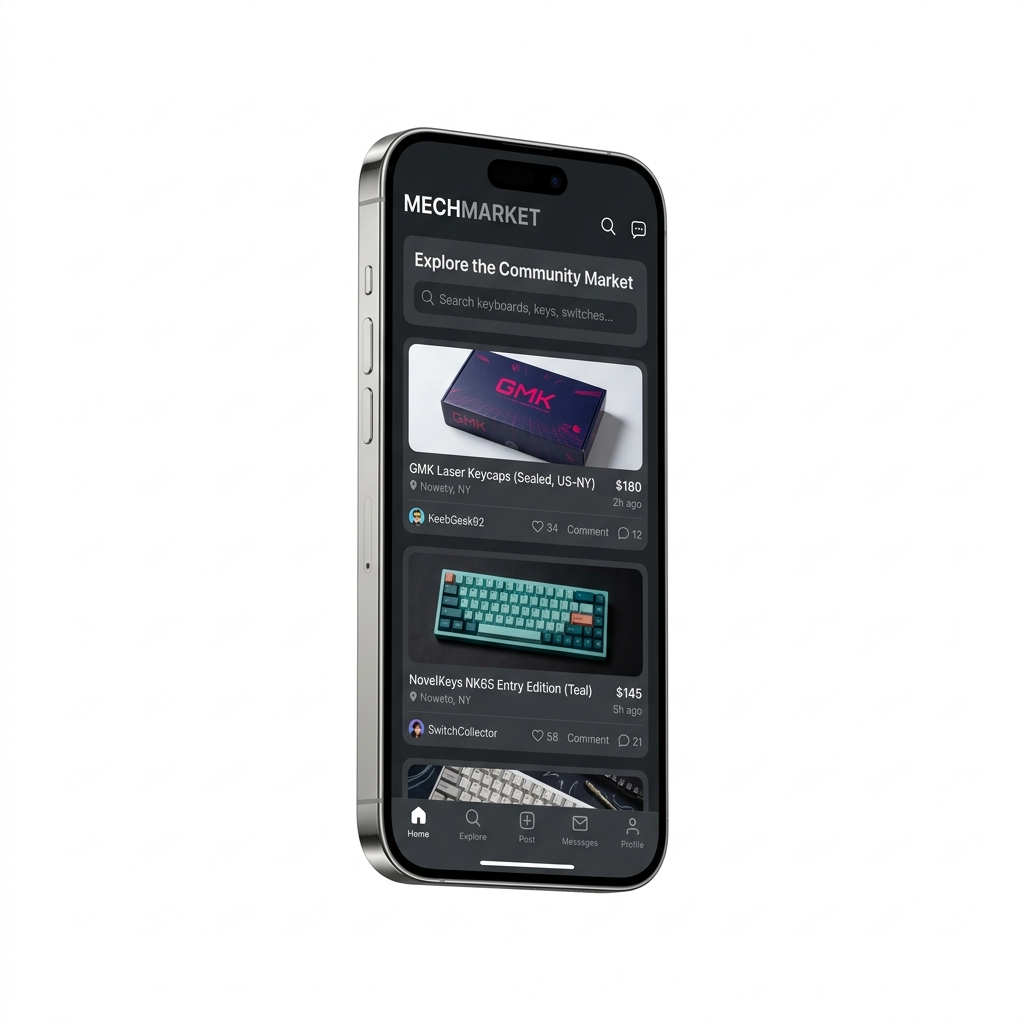
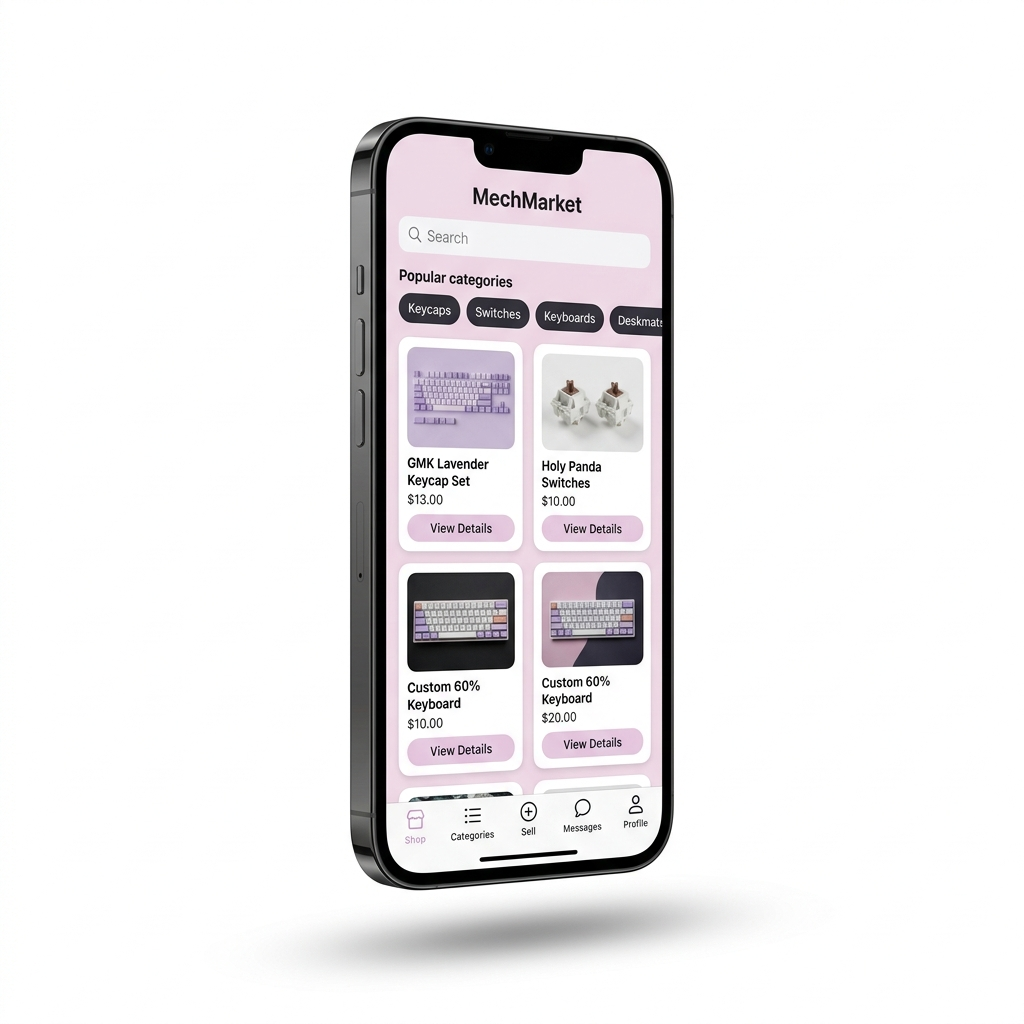
Apply visual overhaul to MechMarket case study using premium lavender and charcoal aesthetic and update mockup assets

Changed region(s): [[0.3125, 0.0938, 0.6875, 0.9688]]

diff --git a/assets/css/main.css b/assets/css/main.css
@@ -6105,20 +6105,20 @@ body.museum-page,
     }
 }
 
-/* Mechmarket Case Study Hero Section Styling */
+/* Mechmarket Case Study Lavender Overhaul Styling */
 body.mechmarket-page,
 .mechmarket-page #wrapper,
 .mechmarket-page #main {
-    background-color: var(--apple-bg-gray) !important;
+    background-color: #F2DCE5 !important; /* Soft Pastel Lavender/Pink Background */
 }
 
 .mechmarket-hero {
-    background-color: #FF8A8A !important; /* Solid vibrant coral-pink background */
+    background-color: #F2DCE5 !important; /* Soft Pastel Lavender/Pink Background */
     width: 100% !important;
     max-width: 100% !important;
     padding: 80px 0 !important;
     box-sizing: border-box !important;
-    color: #FFFFFF !important;
+    color: #202020 !important; /* Deep Charcoal primary text */
 }
 
 .mechmarket-hero .hero-inner {
@@ -6155,8 +6155,8 @@ body.mechmarket-page,
     display: inline-flex !important;
     align-items: center !important;
     justify-content: center !important;
-    background-color: #FFFFFF !important;
-    color: #FF8A8A !important;
+    background-color: #202020 !important; /* Deep Charcoal logo icon background */
+    color: #F2DCE5 !important; /* Soft Lavender logo text */
     width: 48px !important;
     height: 48px !important;
     border-radius: 50% !important;
@@ -6170,7 +6170,7 @@ body.mechmarket-page,
 .mechmarket-hero .hero-title {
     font-size: 56px !important;
     font-weight: 700 !important;
-    color: #FFFFFF !important;
+    color: #202020 !important; /* Deep Charcoal title */
     font-family: 'Space Grotesk', sans-serif !important;
     margin: 0 !important;
     line-height: 1.1 !important;
@@ -6180,7 +6180,7 @@ body.mechmarket-page,
 .mechmarket-hero .hero-subtitle {
     font-size: 24px !important;
     font-weight: 500 !important;
-    color: rgba(255, 255, 255, 0.95) !important;
+    color: rgba(32, 32, 32, 0.8) !important; /* Charcoal subtitle */
     margin-bottom: 32px !important;
     line-height: 1.2 !important;
 }
@@ -6204,11 +6204,11 @@ body.mechmarket-page,
 
 .mechmarket-hero .metadata-item .label {
     font-weight: 600 !important;
-    color: rgba(255, 255, 255, 0.85) !important;
+    color: rgba(32, 32, 32, 0.6) !important;
 }
 
 .mechmarket-hero .metadata-item .value {
-    color: #FFFFFF !important;
+    color: #202020 !important;
     font-weight: 400 !important;
 }
 
@@ -6217,8 +6217,8 @@ body.mechmarket-page,
 }
 
 .mechmarket-hero .hero-button {
-    background-color: #FFFFFF !important;
-    color: #FF8A8A !important;
+    background-color: #202020 !important; /* Deep Charcoal button background */
+    color: #FFFFFF !important;
     font-weight: 600 !important;
     border-radius: 30px !important;
     padding: 0 28px !important;
@@ -6228,16 +6228,16 @@ body.mechmarket-page,
     letter-spacing: 0.05em !important;
     text-transform: uppercase !important;
     border: none !important;
-    box-shadow: 0 4px 14px rgba(0, 0, 0, 0.1) !important;
-    transition: transform 0.2s ease, box-shadow 0.2s ease !important;
+    box-shadow: 0 4px 14px rgba(0, 0, 0, 0.15) !important;
+    transition: transform 0.2s ease, background-color 0.2s ease, box-shadow 0.2s ease !important;
     display: inline-block !important;
 }
 
 .mechmarket-hero .hero-button:hover {
     transform: translateY(-2px) !important;
-    box-shadow: 0 6px 20px rgba(0, 0, 0, 0.15) !important;
-    background-color: #FFFFFF !important;
-    color: #FF8A8A !important;
+    box-shadow: 0 6px 20px rgba(0, 0, 0, 0.2) !important;
+    background-color: #E6B8D1 !important; /* Accent soft pink hover color */
+    color: #202020 !important;
 }
 
 .mechmarket-hero .hero-visual-block {
@@ -6252,7 +6252,71 @@ body.mechmarket-page,
     max-width: 100% !important;
     height: auto !important;
     display: block !important;
-    filter: drop-shadow(0 15px 30px rgba(0, 0, 0, 0.12)) !important;
+    filter: drop-shadow(0 15px 30px rgba(32, 32, 32, 0.1)) !important;
+}
+
+/* Floating White Bento-style Cards Over Lavender */
+.mechmarket-page #main section {
+    background-color: #FFFFFF !important; /* Pure White Surfaces */
+    border-radius: 18px !important; /* Soft corners */
+    box-shadow: 0 8px 30px rgba(0, 0, 0, 0.03) !important;
+    padding: 48px !important;
+    margin: 48px auto !important; /* Luxury whitespace padding */
+    max-width: 1000px !important;
+    width: 100% !important;
+    box-sizing: border-box !important;
+    border: none !important;
+}
+
+.mechmarket-page #main section .inner {
+    padding: 0 !important;
+    max-width: 100% !important;
+    width: 100% !important;
+}
+
+/* General Typography inside lavender page */
+.mechmarket-page h2,
+.mechmarket-page h3,
+.mechmarket-page p,
+.mechmarket-page li {
+    color: #202020 !important; /* Deep Charcoal for legibility */
+}
+
+.mechmarket-page h2 {
+    font-size: 32px !important;
+    font-weight: 700 !important;
+    letter-spacing: -0.02em !important;
+    margin-bottom: 24px !important;
+}
+
+.mechmarket-page p,
+.mechmarket-page li {
+    font-size: 16px !important;
+    line-height: 1.7 !important;
+    letter-spacing: -0.01em !important;
+}
+
+/* Sub-Navigation styling for MechMarket */
+.mechmarket-page .nav-container {
+    background-color: #FFFFFF !important; /* White sub-nav */
+    border-bottom: 1px solid rgba(32, 32, 32, 0.08) !important;
+}
+
+.mechmarket-page .nav-container .nav-segment {
+    color: rgba(32, 32, 32, 0.6) !important;
+    border-bottom: 2px solid transparent !important;
+    font-size: 13px !important;
+    font-weight: 500 !important;
+}
+
+.mechmarket-page .nav-container .nav-segment:hover {
+    color: #202020 !important;
+}
+
+.mechmarket-page .nav-container .nav-segment.active {
+    color: #E6B8D1 !important; /* Accent blush/pink */
+    border-bottom: 2px solid #E6B8D1 !important;
+    font-weight: 600 !important;
 }
 
 @media screen and (max-width: 768px) {
@@ -6282,6 +6346,11 @@ body.mechmarket-page,
     .mechmarket-hero .hero-visual-block {
         max-width: 100% !important;
     }
+    .mechmarket-page #main section {
+        padding: 32px 20px !important;
+        margin: 24px auto !important;
+        border-radius: 14px !important;
+    }
 }
 
 /* Responsive Two Column Split Layout */
@@ -6303,7 +6372,7 @@ body.mechmarket-page,
 .split-columns-grid h2 {
     font-size: 28px !important;
     font-weight: 600 !important;
-    color: var(--apple-text-primary) !important;
+    color: #202020 !important;
     margin-bottom: 20px !important;
     letter-spacing: -0.015em !important;
     border-bottom: none !important;
@@ -6313,7 +6382,7 @@ body.mechmarket-page,
 .split-columns-grid p {
     font-size: 15px !important;
     line-height: 1.6 !important;
-    color: var(--apple-text-secondary) !important;
+    color: #202020 !important;
     margin: 0 !important;
 }
 
@@ -6326,7 +6395,7 @@ body.mechmarket-page,
 .challenge-list li {
     font-size: 15px !important;
     line-height: 1.6 !important;
-    color: var(--apple-text-secondary) !important;
+    color: #202020 !important;
     margin-bottom: 12px !important;
     padding-left: 4px !important;
 }
@@ -6341,6 +6410,7 @@ body.mechmarket-page,
         width: 100% !important;
     }
 }
+
 
 
 

diff --git a/index.html b/index.html
@@ -9,7 +9,7 @@
 		<meta name="viewport" content="width=device-width, initial-scale=1, user-scalable=no" />
 		<link rel="preconnect" href="https://fonts.googleapis.com">
 <link rel="preconnect" href="https://fonts.gstatic.com" crossorigin>
-		<link rel="stylesheet" href="assets/css/main.css?v=12.5" />
+		<link rel="stylesheet" href="assets/css/main.css?v=12.6" />
 		<noscript><link rel="stylesheet" href="assets/css/noscript.css" /></noscript>
     <link href="https://fonts.googleapis.com/css2?family=Inter:wght@400;500;600&family=Space+Grotesk:wght@400;700&display=swap" rel="stylesheet">
 		

diff --git a/mechmarket.html b/mechmarket.html
@@ -9,7 +9,7 @@
     <link rel="preconnect" href="https://fonts.gstatic.com" crossorigin>
     <link href="https://fonts.googleapis.com/css2?family=Inter:wght@400;500;600&family=Space+Grotesk:wght@400;700&display=swap" rel="stylesheet">
     
-    <link rel="stylesheet" href="assets/css/main.css?v=12.5" />
+    <link rel="stylesheet" href="assets/css/main.css?v=12.6" />
     <link rel="icon" type="image/png" href="images/logo.png" />
 </head>
 

diff --git a/museum.html b/museum.html
@@ -9,7 +9,7 @@
     <link rel="preconnect" href="https://fonts.gstatic.com" crossorigin>
     <link href="https://fonts.googleapis.com/css2?family=Inter:wght@400;500;600&family=Space+Grotesk:wght@400;700&display=swap" rel="stylesheet">
     
-    <link rel="stylesheet" href="assets/css/main.css?v=12.5" />
+    <link rel="stylesheet" href="assets/css/main.css?v=12.6" />
     <link rel="icon" type="image/png" href="images/logo.png" />
 </head>
 

diff --git a/walk-my-dog.html b/walk-my-dog.html
@@ -9,7 +9,7 @@
     <link rel="preconnect" href="https://fonts.gstatic.com" crossorigin>
     <link href="https://fonts.googleapis.com/css2?family=Inter:wght@400;500;600&family=Space+Grotesk:wght@400;700&display=swap" rel="stylesheet">
     
-    <link rel="stylesheet" href="assets/css/main.css?v=12.5" />
+    <link rel="stylesheet" href="assets/css/main.css?v=12.6" />
     <link rel="icon" type="image/png" href="images/logo.png" />
 </head>
 